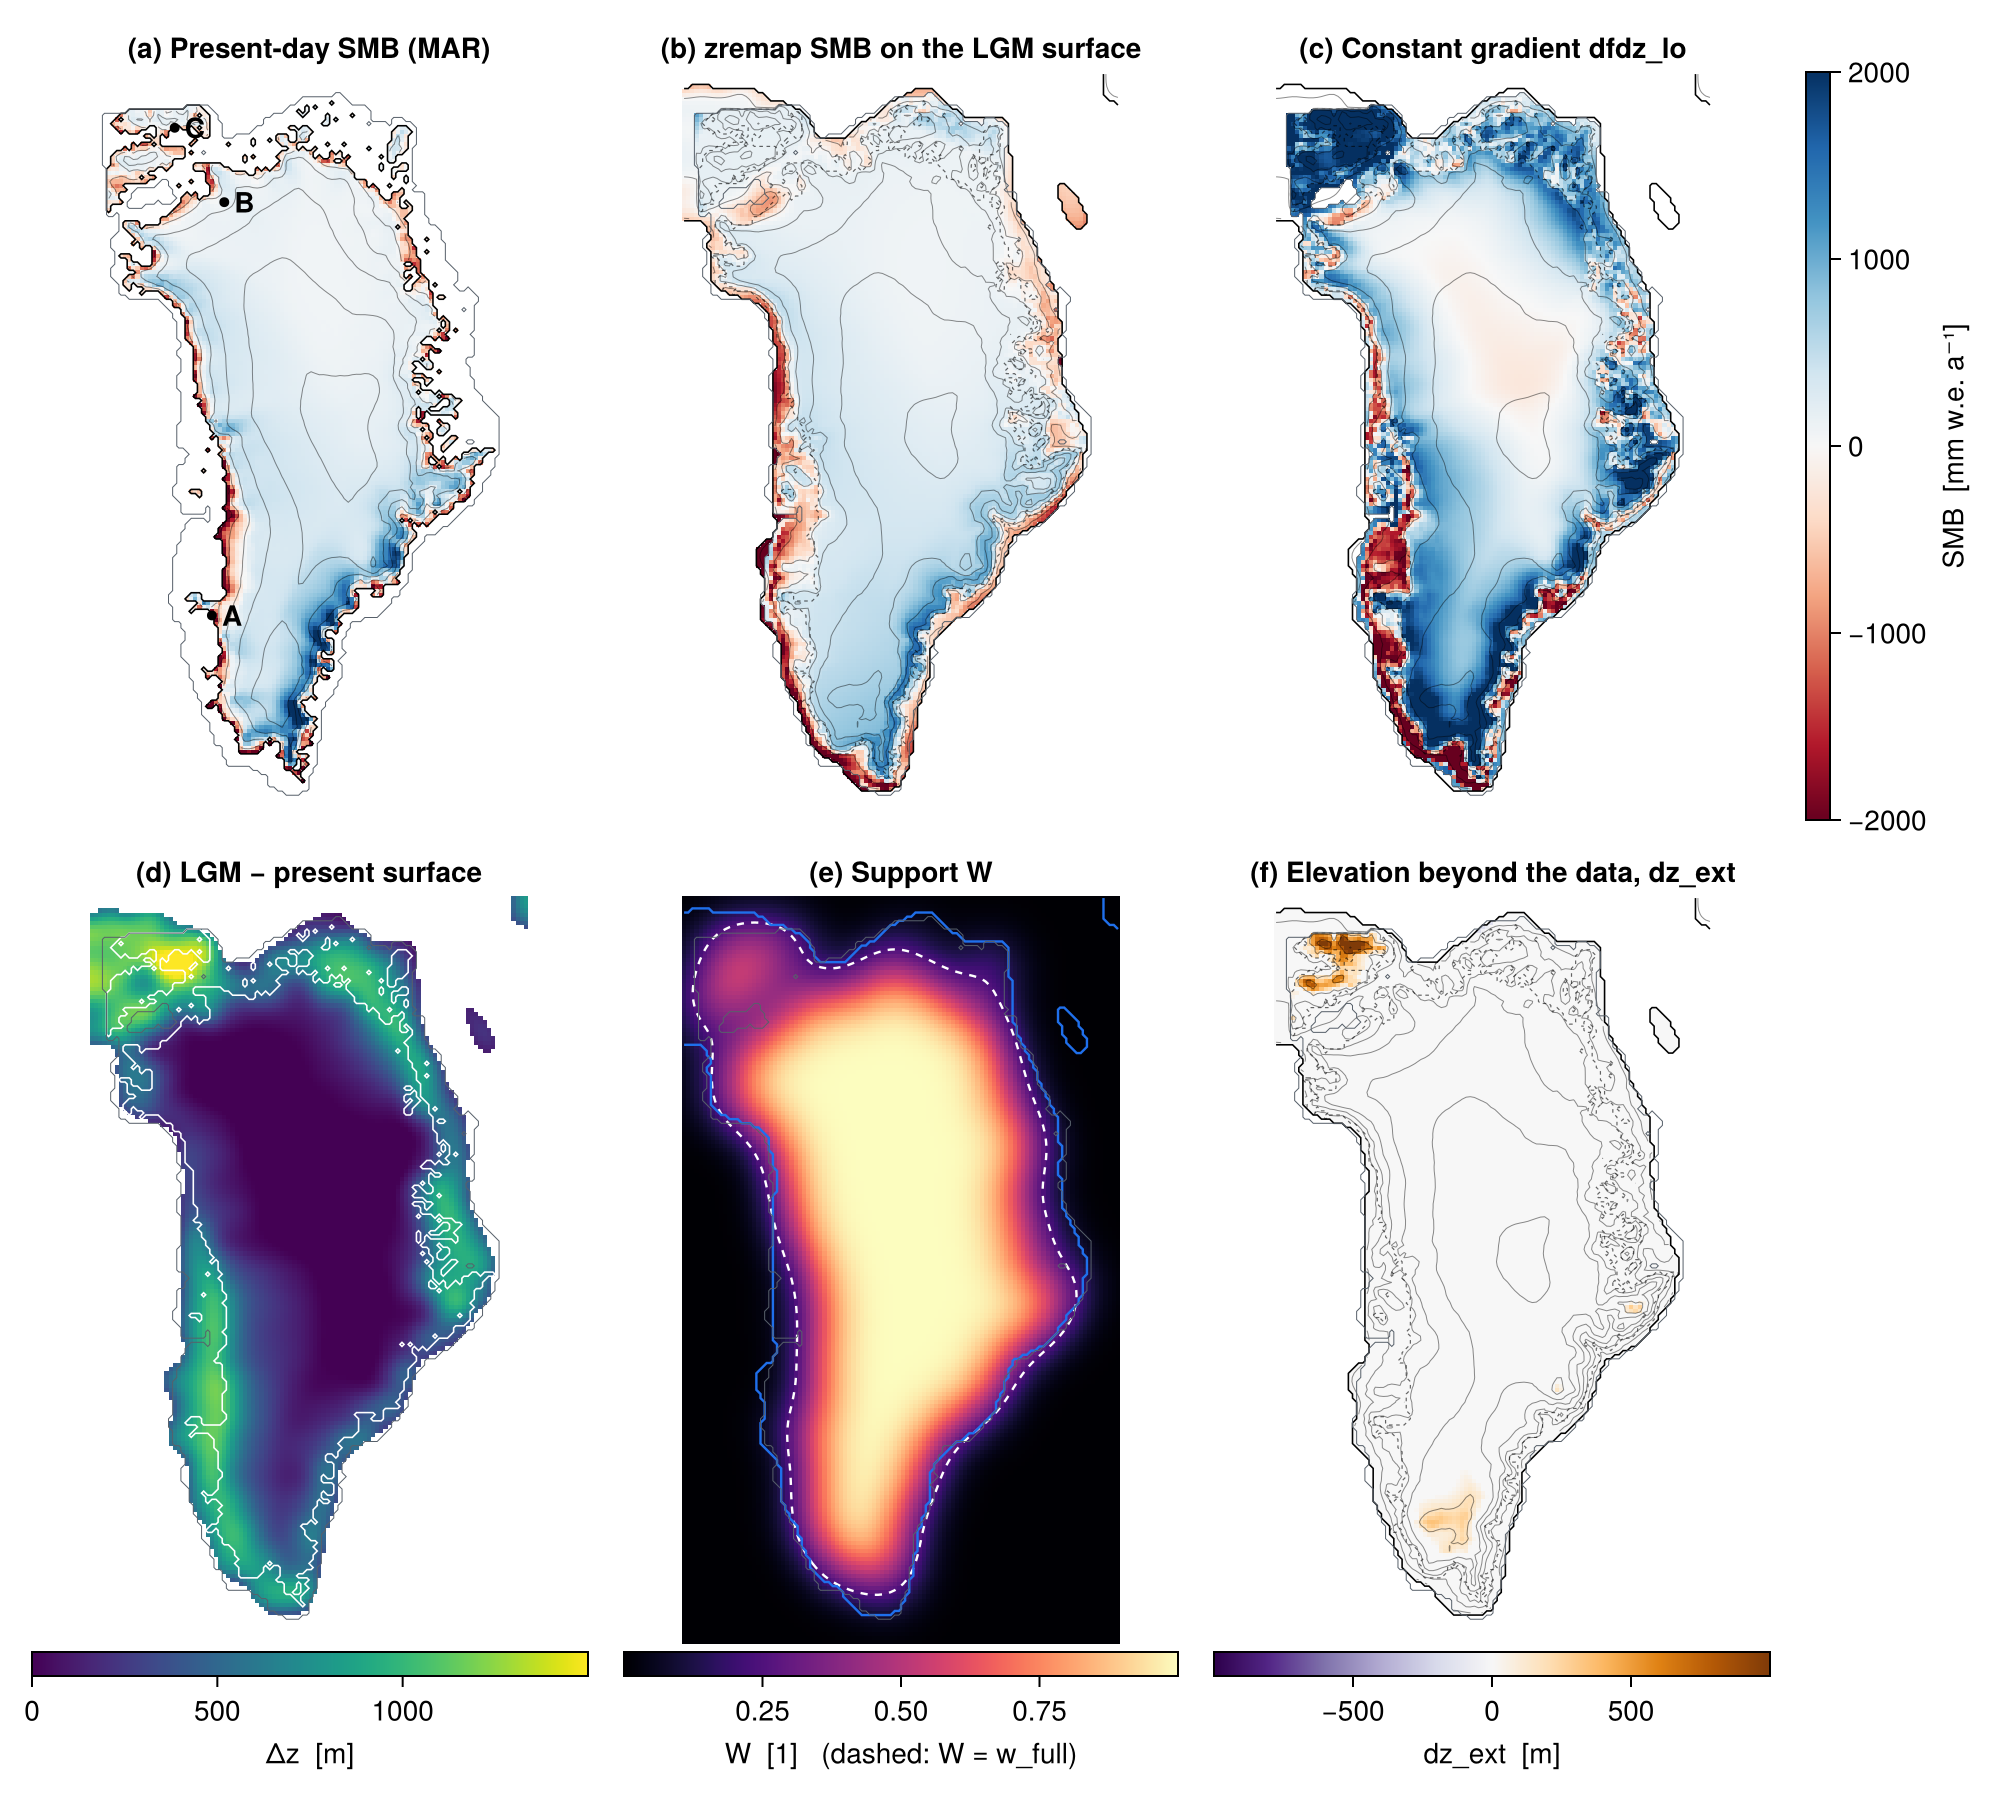
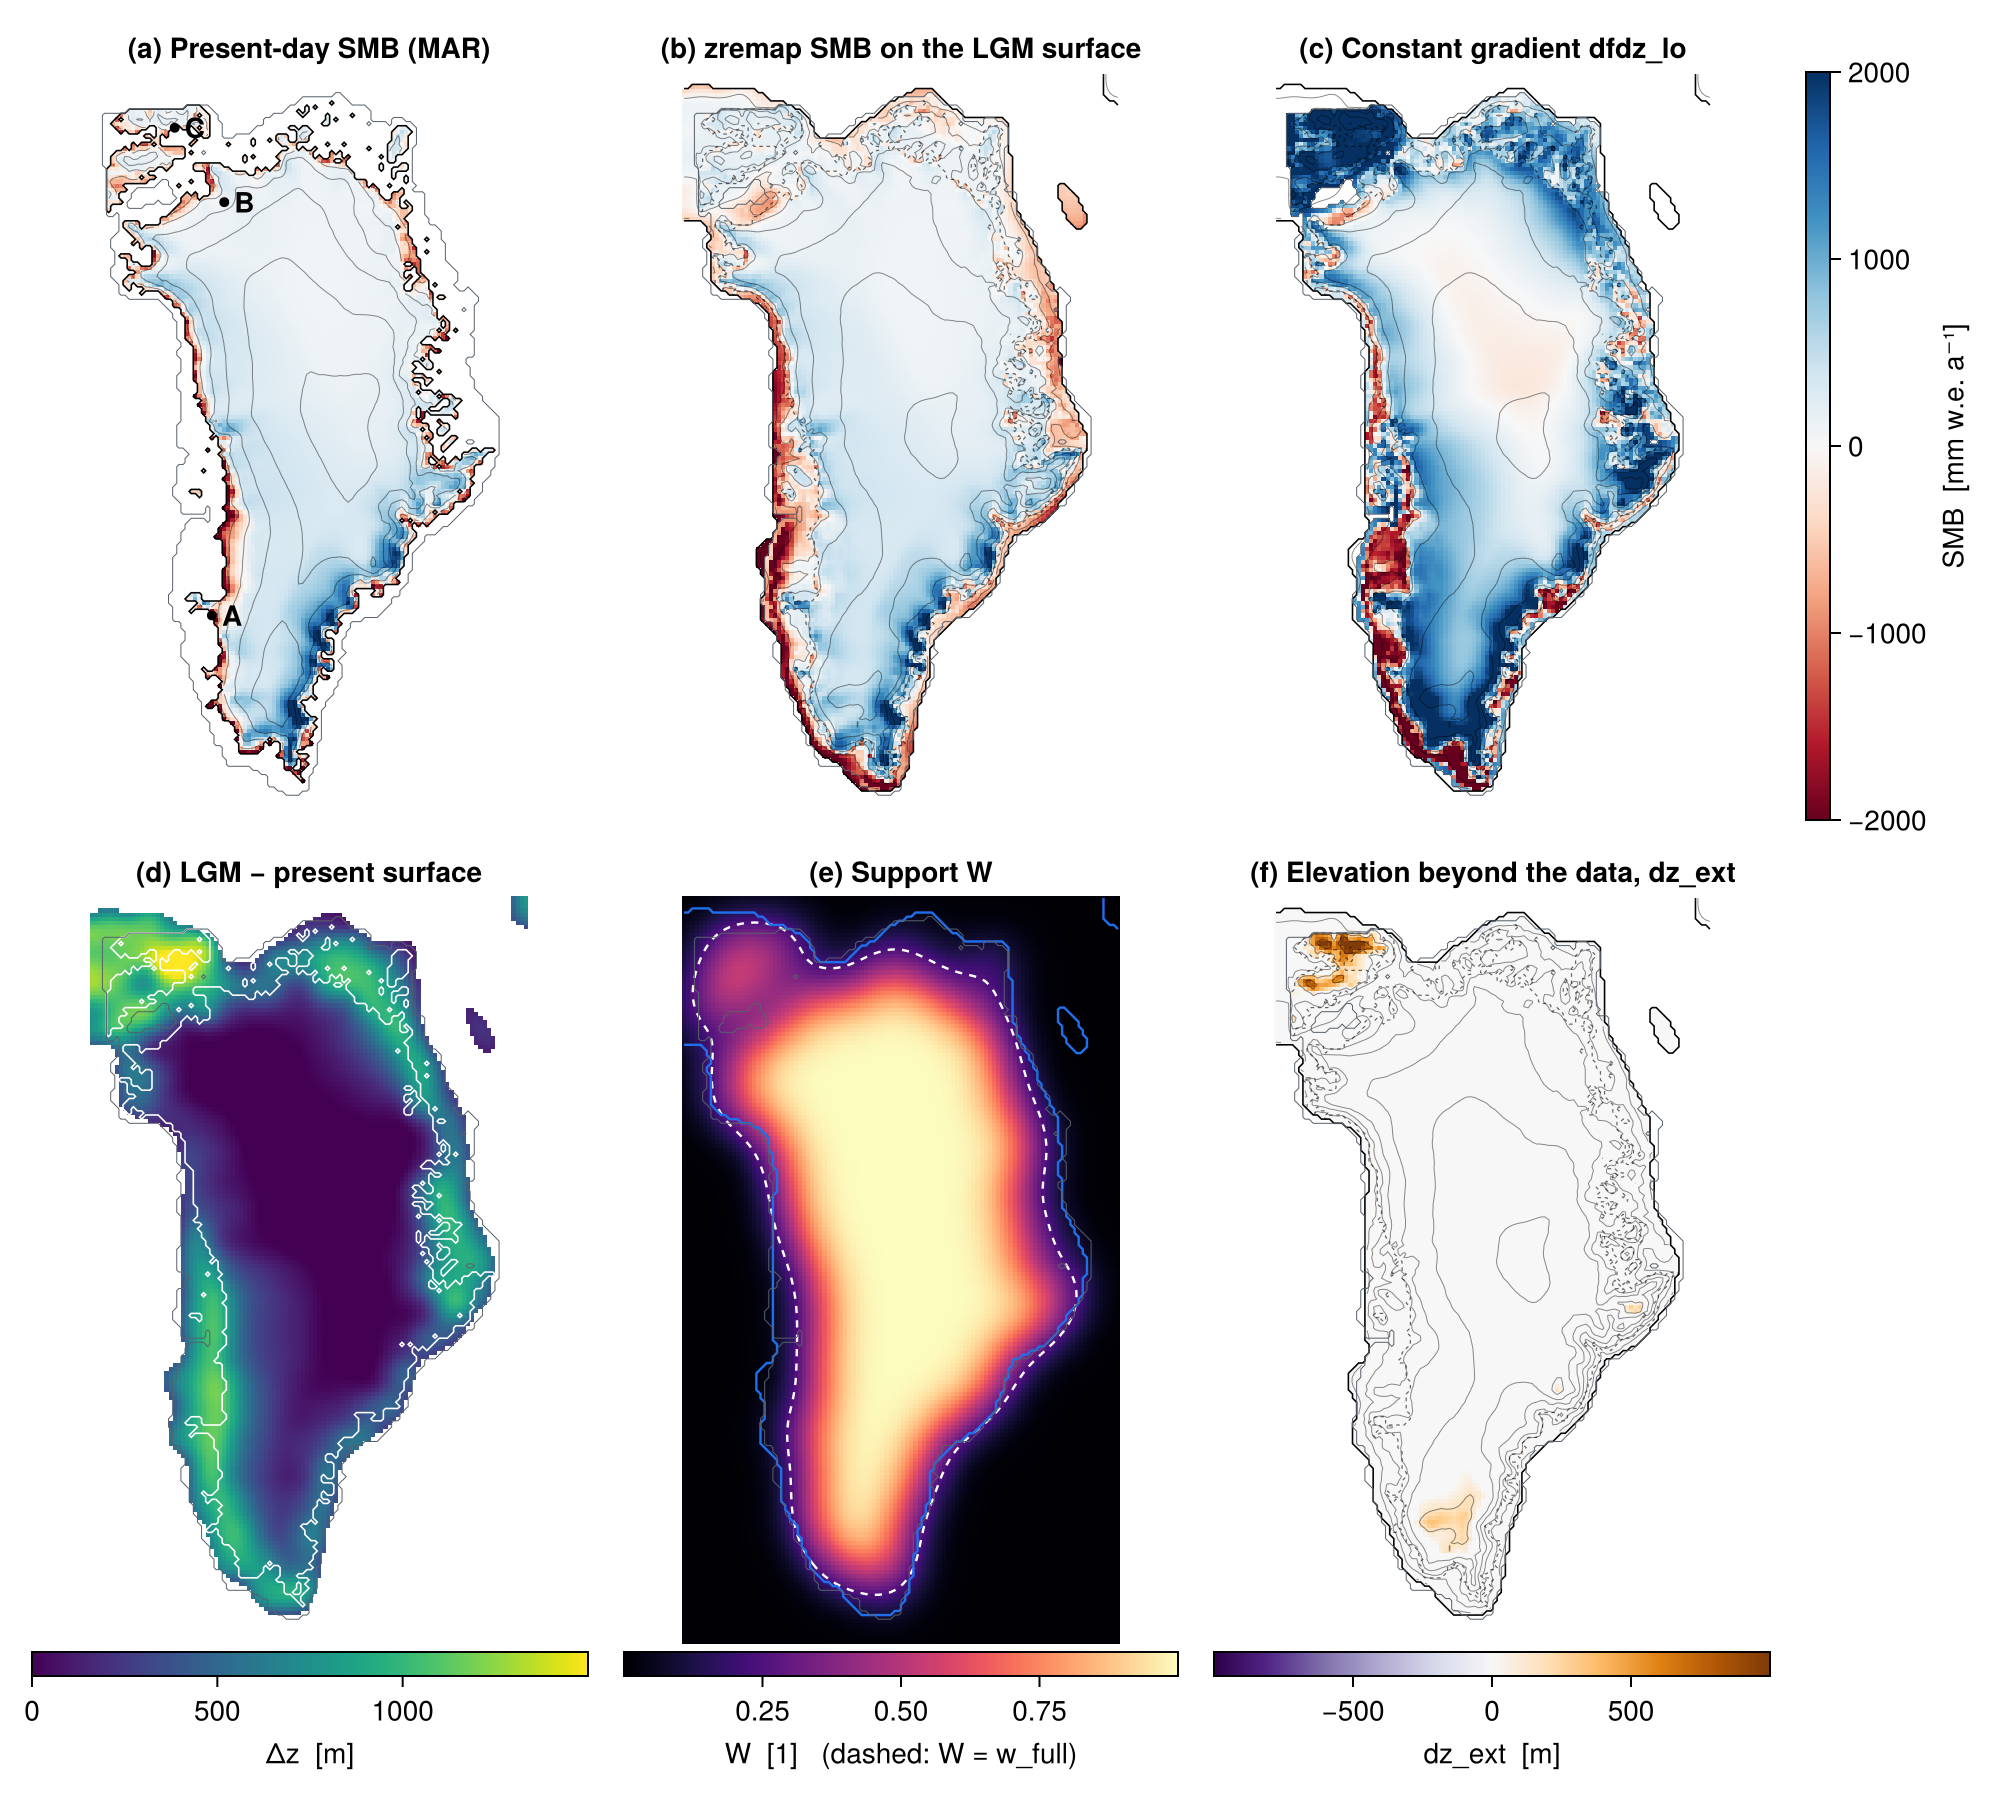
zremap: anomaly form on the data points (f_ref reproduced at z_ref)

diff --git a/CHANGELOG.md b/CHANGELOG.md
@@ -25,10 +25,12 @@ All notable changes to fesm-utils are documented here.
   mask_ref) in a Gaussian neighbourhood of width `sigma` (cf. Goelzer et al., 2020,
   with a radius instead of basins); `zremap_map` evaluates them at z_now. Tables every
   `stride` points, smoothing of the profiles along z (`sigma_z`), end gradients
-  `dfdz_lo`/`dfdz_hi`. The profiles are blended with
-  the fallback f_ref + dfdz*(z_now-z_ref) (dfdz_lo below z_ref, dfdz_hi above) by the data support W (kernel weight of
-  the data, 0-1): alpha = min(1, W/w_full), so the field fades continuously to the
-  fallback away from the data. Optional `dz_ext` from `zremap_map`: elevation distance
+  `dfdz_lo`/`dfdz_hi`. The interpolated profile P is blended with the fallback
+  f_ref + dfdz*(z_now-z_ref) (dfdz_lo below z_ref, dfdz_hi above) by alpha =
+  min(1, W/w_full), W the data support (kernel weight of the data, 0-1), so the field
+  fades continuously to the fallback away from the data. On the data points P enters
+  as an anomaly, f_ref + alpha*[P(z_now) - P(z_ref)] + ..., so f_ref is reproduced
+  exactly at z_ref; elsewhere as alpha*P(z_now) + ... (f_ref there may be gap-filled). Optional `dz_ext` from `zremap_map`: elevation distance
   beyond the data range. `zremap_write` writes the tables, the support `w` and the
   gradient field `dfdz`. Includes a `make test-zremap` self-check.
 - **varslice**: filling of missing values, optional group keys `fill = "nearest"`
